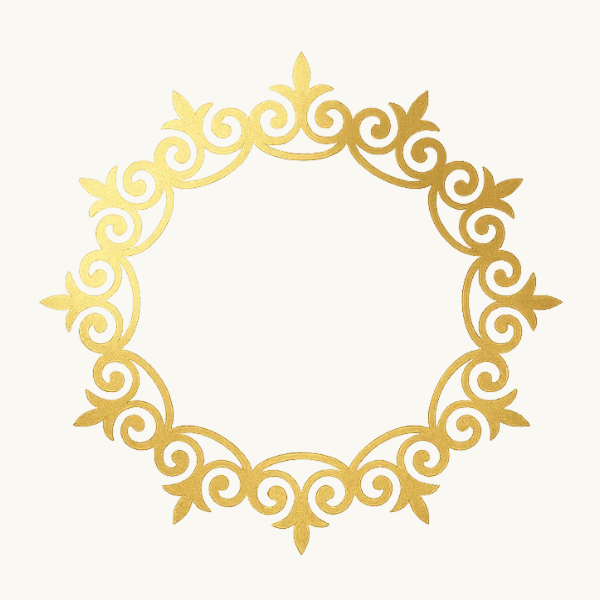
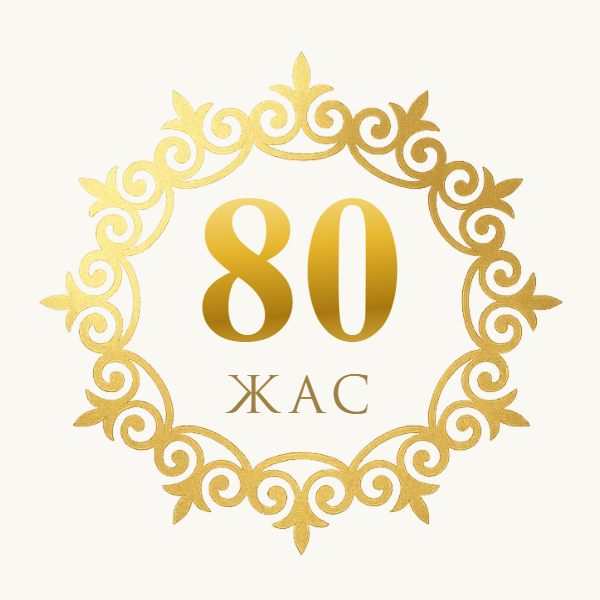
80 in preview, arrow under open button

Changed region(s): [[0.33, 0.33, 0.66, 0.57], [0.39, 0.63, 0.63, 0.69], [0.57, 0.6, 0.6, 0.63]]

diff --git a/index.html b/index.html
@@ -8,7 +8,7 @@
 <meta property="og:title" content="Мерейтойға шақыру · 80 жас">
 <meta property="og:description" content="Сізді Байгужина Теңдіктің 80 жас мерейтойына шақырамыз. 12 желтоқсан 2026, 13:00">
 <meta property="og:url" content="https://zhasissilbayev.github.io/tendik_shakyru_80/">
-<meta property="og:image" content="https://zhasissilbayev.github.io/tendik_shakyru_80/og.png?v=2">
+<meta property="og:image" content="https://zhasissilbayev.github.io/tendik_shakyru_80/og.png?v=3">
 <meta property="og:image:width" content="600">
 <meta property="og:image:height" content="600">
 <meta name="twitter:card" content="summary">
@@ -97,6 +97,7 @@ border:1px solid var(--gold);background:rgba(250,248,242,.92);color:var(--gold);
 #cover .t{font-family:'Asylbek','Noto Serif Display',serif;font-size:34px;color:var(--gold)}
 #cover .b{padding:14px 34px;background:var(--gold);color:#fff;border-radius:40px;letter-spacing:.06em;text-transform:uppercase;font-size:16px;box-shadow:0 10px 22px rgba(122,92,46,.3);border:0;font-family:inherit;cursor:pointer}
 body.lock{overflow:hidden}
+#cover .up{width:56px;height:56px;object-fit:contain;margin-top:-10px;animation:bobup 1.8s infinite}
 </style>
 </head>
 <body class="lock">
@@ -122,7 +123,7 @@ body.lock{overflow:hidden}
   </defs>
 </svg>
 
-<div id="cover"><img class="w" src="img/wreath.webp" alt=""><div class="t">Мерейтойға шақыру</div><button class="b" id="open">Шақыруды ашу</button></div>
+<div id="cover"><img class="w" src="img/wreath.webp" alt=""><div class="t">Мерейтойға шақыру</div><button class="b" id="open">Шақыруды ашу</button><img class="up" src="img/arrow.webp" alt=""></div>
 <audio id="aud" src="music.mp3" loop preload="auto"></audio>
 <button id="music" aria-label="Музыка" title="Музыка"></button>
 
